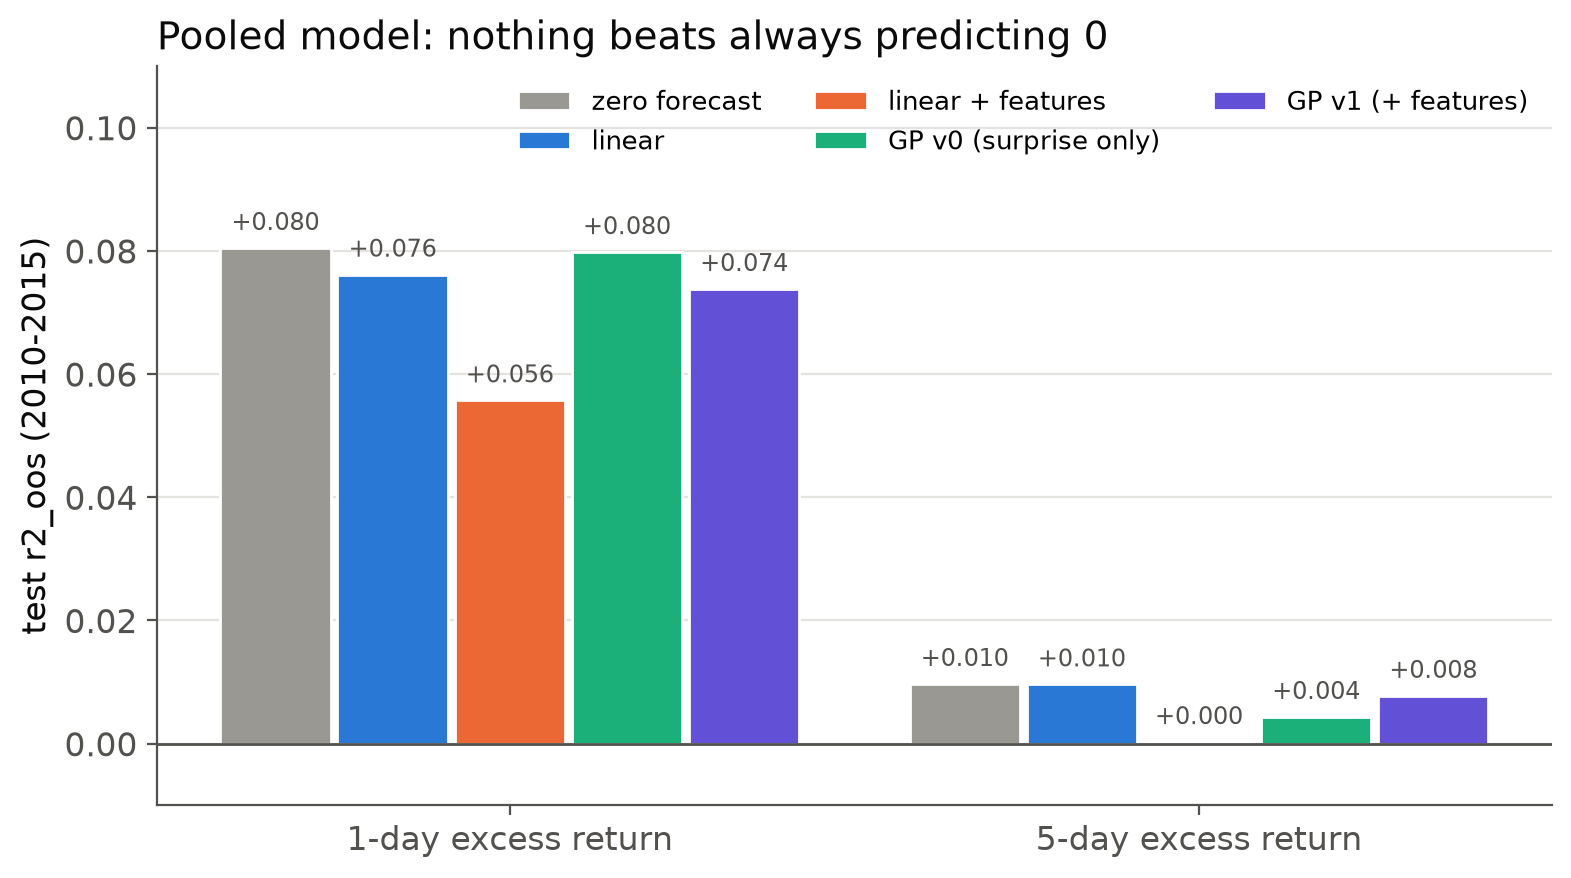
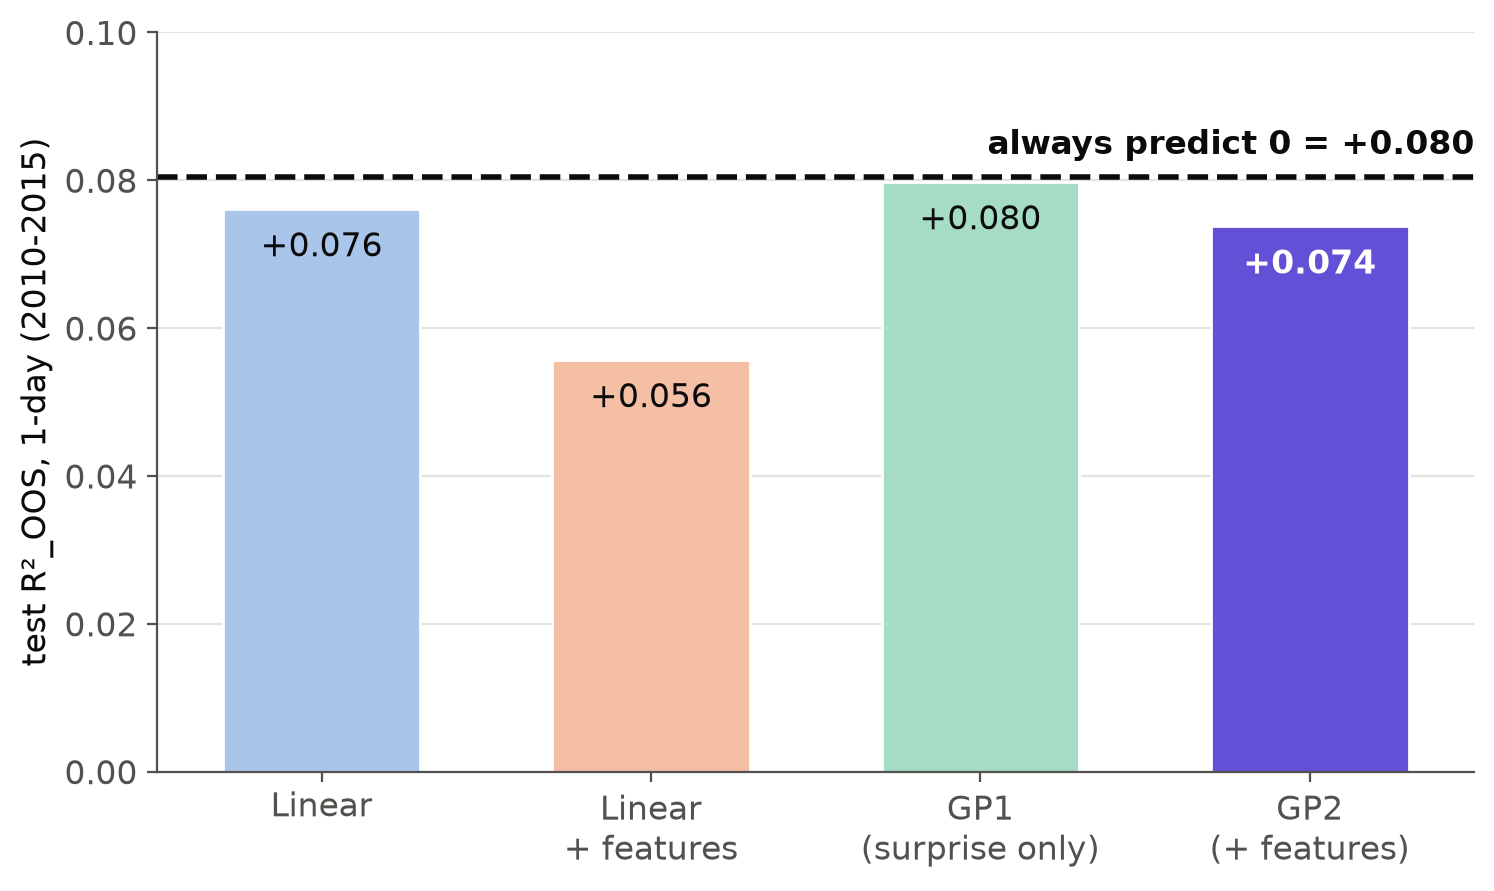
Relabel slide figures as GP1/GP2; redraw main result as 1-day bars against the zero-forecast line

diff --git a/src/plots.py b/src/plots.py
@@ -8,7 +8,7 @@ panel, and writes PNGs to results/figures/:
     fig3_overfit.png          GP per-ticker seed-runs: train r2 vs test r2_oos (slide 9)
     fig4_xle_formula.png      the XLE 1d formula Min(0.022/s^2, 0.0121/s) on the data (slide 9)
     fig5_zero_artifact.png    train-period vs test-period mean excess return per ticker (slide 10)
-    fig6_feature_usage.png    share of GP v1 seed-runs using each input (slide 11)
+    fig6_feature_usage.png    share of GP2 seed-runs using each input (slide 11)
 
 Run from the repo root:
     python -m src.plots
@@ -33,7 +33,11 @@ MODELS = ["zero", "linear", "linear_interact", "gp_v0", "gp_v1"]
 COLORS = {"zero": "#9a9893", "linear": "#2a78d6", "linear_interact": "#eb6834",
           "gp_v0": "#1baf7a", "gp_v1": "#6250d6"}
 LABELS = {"zero": "zero forecast", "linear": "linear", "linear_interact": "linear + features",
-          "gp_v0": "GP v0 (surprise only)", "gp_v1": "GP v1 (+ features)"}
+          "gp_v0": "GP1 (surprise only)", "gp_v1": "GP2 (+ features)"}
+# Slide names: gp_v0 is presented as GP1, gp_v1 as GP2.
+SHORT = {"linear": "Linear", "linear_interact": "Linear\n+ features",
+         "gp_v0": "GP1\n(surprise only)", "gp_v1": "GP2\n(+ features)"}
+MUTED = {"linear": "#a9c6ea", "linear_interact": "#f5bfa6", "gp_v0": "#a6dcc6"}
 DIVERGING = LinearSegmentedColormap.from_list("div", ["#c8362f", "#f3f2ef", "#2a78d6"])
 
 plt.rcParams.update({
@@ -52,23 +56,28 @@ def save(fig, name):
 
 
 def fig1_pooled(summary):
-    s = summary[summary["ticker"] == "POOLED"]
-    fig, ax = plt.subplots(figsize=(9, 4.8))
-    width = 0.16
-    for i, m in enumerate(MODELS):
-        vals = [float(s[(s.model == m) & (s.horizon == h)]["r2_oos"].iloc[0]) for h in config.HORIZONS]
-        x = np.arange(len(config.HORIZONS)) + (i - 2) * (width + 0.01)
-        ax.bar(x, vals, width, color=COLORS[m], label=LABELS[m], edgecolor="white", linewidth=1)
-        for xi, v in zip(x, vals):
-            ax.text(xi, v + (0.002 if v >= 0 else -0.002), f"{v:+.3f}", ha="center",
-                    va="bottom" if v >= 0 else "top", fontsize=8.5, color=INK2)
+    """Pooled 1-day result: the zero forecast is drawn as the bar to clear, not as another model.
+    GP2 (the main model) in full color, the others muted. 5-day is left to the slide text
+    (every model is within 0.01 of zero there)."""
+    s = summary[(summary["ticker"] == "POOLED") & (summary["horizon"] == "1d")]
+    r2 = {m: float(s[s.model == m]["r2_oos"].iloc[0]) for m in MODELS}
+    models = MODELS[1:]
+    fig, ax = plt.subplots(figsize=(8.5, 4.8))
+    x = np.arange(len(models))
+    for xi, m in zip(x, models):
+        color = COLORS[m] if m == "gp_v1" else MUTED[m]
+        ax.bar(xi, r2[m], 0.6, color=color, edgecolor="white", linewidth=1)
+        ax.text(xi, r2[m] - 0.003, f"{r2[m]:+.3f}", ha="center", va="top", fontsize=12,
+                color="white" if m == "gp_v1" else INK, fontweight="bold" if m == "gp_v1" else None)
+    ax.axhline(r2["zero"], color=INK, linewidth=2, linestyle="--")
+    ax.text(len(models) - 0.5, r2["zero"] + 0.002, f"always predict 0 = {r2['zero']:+.3f}",
+            ha="right", va="bottom", fontsize=12, color=INK, fontweight="bold")
     ax.axhline(0, color=INK2, linewidth=1)
-    ax.set_xticks(range(len(config.HORIZONS)), ["1-day excess return", "5-day excess return"])
-    ax.set_ylabel("test r2_oos (2010-2015)")
-    ax.set_title("Pooled model: nothing beats always predicting 0", loc="left", fontsize=14, color=INK)
+    ax.set_xticks(x, [SHORT[m] for m in models], fontsize=12)
+    ax.set_ylabel("test R²_OOS, 1-day (2010-2015)")
     ax.grid(axis="x", visible=False)
-    ax.legend(ncol=3, loc="upper right", fontsize=9.5)
-    ax.set_ylim(-0.01, 0.11)
+    ax.set_ylim(0, 0.1)
+    ax.set_xlim(-0.5, len(models) - 0.5)
     save(fig, "fig1_pooled_r2.png")
 
 
@@ -203,8 +212,8 @@ def fig6_features():
                 edgecolor="white", linewidth=1)
     ax.set_yticks(y, [c if c != "constant" else "no input (constant)" for c in cols])
     ax.invert_yaxis()
-    ax.set_xlabel("share of GP v1 per-sector seed-runs using the input (%)")
-    ax.set_title("GP v1 uses the features, mostly at 5 days, but they don't help on test",
+    ax.set_xlabel("share of GP2 per-sector seed-runs using the input (%)")
+    ax.set_title("GP2 uses the features, mostly at 5 days, but they don't help on test",
                  loc="left", fontsize=12.5, color=INK)
     ax.grid(axis="y", visible=False)
     ax.legend(fontsize=9.5, loc="center right")
